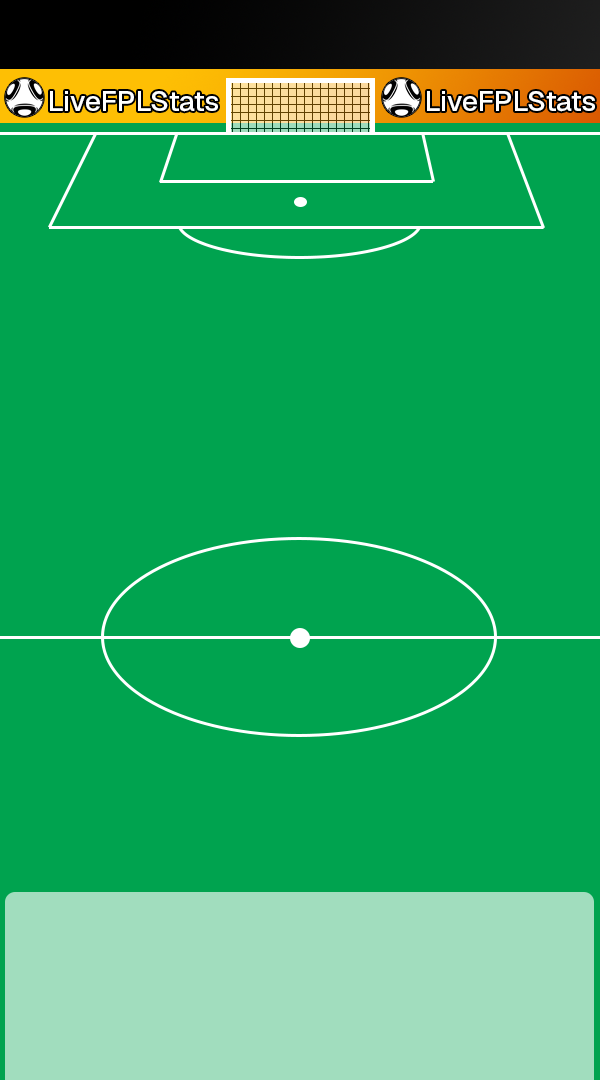
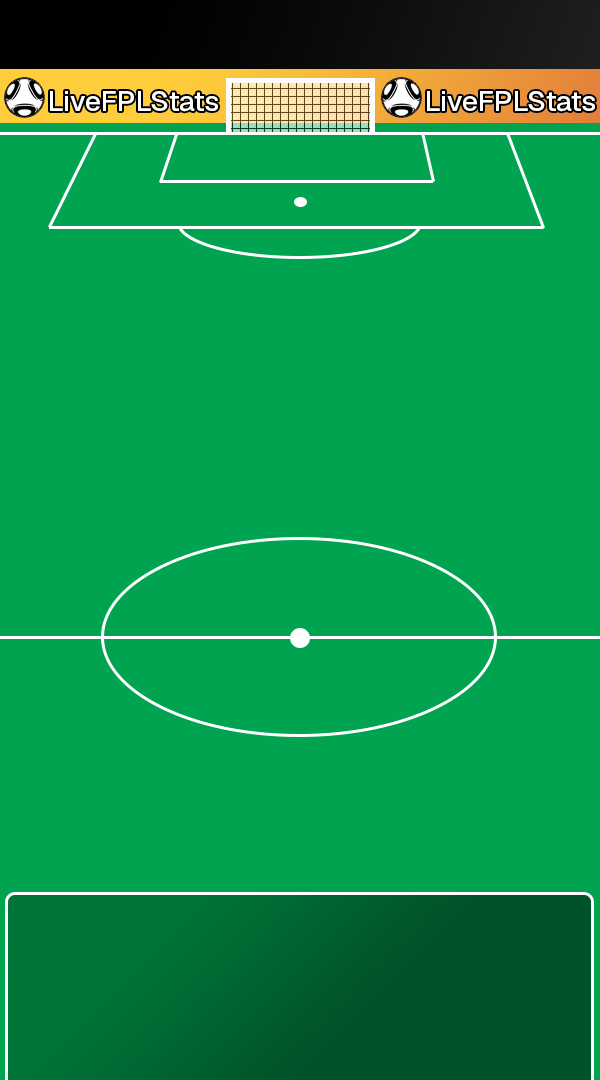
added new pitch graphic for  dream team image generation minor image generation styling changes

Changed region(s): [[0.0, 0.825, 0.99, 1.0], [0.0, 0.0611, 1.0, 0.1222]]

diff --git a/bot/image_generator.py b/bot/image_generator.py
@@ -6,6 +6,7 @@ from PIL import Image, ImageDraw, ImageFont
 
 # --- File Paths ---
 BACKGROUND_IMAGE_PATH = "mobile-pitch-graphic.png"
+DREAMTEAM_BACKGROUND_PATH = "dream-pitch-graphic.png"
 FONT_PATH = "Geist-Medium.otf"
 JERSEYS_DIR = "team_jerseys"
 JERSEY_SIZE = (94, 125)  # ~10% smaller than original 104x146, maintains aspect ratio
@@ -21,9 +22,9 @@ PLAYER_BOX_WIDTH = 110  # Fixed width to fit "XXXXXXXX..." at font size 20
 # --- Shared Layout Settings ---
 NAME_BOX_Y_OFFSET = 66      # Offset from player Y to name box
 JERSEY_Y_OFFSET = 10        # Offset for jersey paste position
-NAME_TEXT_Y_OFFSET = -2     # Name text Y offset within box
-POINTS_BOX_COLOR = "#015030"  # Dark green
-NAME_BOX_COLOR = (0, 0, 0, 100)  # Semi-transparent black
+NAME_TEXT_Y_OFFSET = -1     # Name text Y offset within box
+POINTS_BOX_COLOR = "#2E0F68"  # Purple
+NAME_BOX_COLOR = (0, 0, 0, 100)  # Black
 
 
 def format_player_price(player):
@@ -273,7 +274,7 @@ def generate_team_image(fpl_data, summary_data, is_finished=False):
 def generate_dreamteam_image(fpl_data, summary_data):
     """Generate dream team image with Player of the Week graphic."""
     try:
-        pitch = Image.open(BACKGROUND_IMAGE_PATH).convert("RGBA")
+        pitch = Image.open(DREAMTEAM_BACKGROUND_PATH).convert("RGBA")
         base_layer = Image.new("RGBA", pitch.size, "#1A1A1E")
         background = Image.alpha_composite(base_layer, pitch)
         draw = ImageDraw.Draw(background)
@@ -374,9 +375,9 @@ def generate_dreamteam_image(fpl_data, summary_data):
     potw_name = potw_player_info['web_name']
     potw_points = potw_data['points']
 
-    # POTW positioning (bottom center area)
-    potw_y = int(height * 0.89) - 10
-    potw_font_large = ImageFont.truetype(FONT_PATH, 28)  # Same size as league name
+    # POTW fonts
+    potw_title_font = ImageFont.truetype(FONT_PATH, 36)  # Larger title
+    potw_details_font = ImageFont.truetype(FONT_PATH, 28)  # Smaller details
 
     # Load jersey for POTW (full size like pitch players)
     team_id = potw_player_info['team']
@@ -395,26 +396,36 @@ def generate_dreamteam_image(fpl_data, summary_data):
     except FileNotFoundError:
         pass
 
-    # Calculate text width for centering the whole section
+    # Draw "Player of the Week" title - centered horizontally, higher up
     title_text = "Player of the Week"
-    title_bbox = draw.textbbox((0, 0), title_text, font=potw_font_large)
-    text_width = title_bbox[2]
-    jersey_width = potw_img.width if potw_img else 0
-    total_width = text_width + 20 + jersey_width  # 20px gap between text and jersey
+    title_bbox = draw.textbbox((0, 0), title_text, font=potw_title_font)
+    title_width = title_bbox[2]
+    title_x = (width - title_width) // 2
+    title_y = int(height * 0.85) - 15  # Adjust this to move title up/down
+    draw.text((title_x, title_y), title_text, font=potw_title_font, fill="black")
 
-    # Center the whole section
+    # Calculate positioning for details section (name, pts, stats + jersey)
+    details_y = title_y + 70  # Adjust this to move details up/down (was 40, now 50 = 10px lower)
+    jersey_width = potw_img.width if potw_img else 0
+
+    # Get max width of detail texts
+    name_bbox = draw.textbbox((0, 0), potw_name, font=potw_details_font)
+    pts_bbox = draw.textbbox((0, 0), f"{potw_points} pts", font=potw_details_font)
+    stats_bbox = draw.textbbox((0, 0), f"G: {potw_data['goals']} A: {potw_data['assists']}", font=potw_details_font)
+    max_text_width = max(name_bbox[2], pts_bbox[2], stats_bbox[2])
+
+    total_width = max_text_width + 20 + jersey_width
     start_x = (width - total_width) // 2
 
-    # Draw text (left-aligned within centered section)
-    draw.text((start_x, potw_y), title_text, font=potw_font_large, fill="white")
-    draw.text((start_x, potw_y + 30), potw_name, font=potw_font_large, fill="white")
-    draw.text((start_x, potw_y + 60), f"{potw_points} pts", font=potw_font_large, fill="white")
-    draw.text((start_x, potw_y + 90), f"G: {potw_data['goals']} A: {potw_data['assists']}", font=potw_font_large, fill="white")
+    # Draw player details (left-aligned within centered section)
+    draw.text((start_x, details_y), potw_name, font=potw_details_font, fill="black")
+    draw.text((start_x, details_y + 28), f"{potw_points} pts", font=potw_details_font, fill="black")
+    draw.text((start_x, details_y + 56), f"G: {potw_data['goals']} A: {potw_data['assists']}", font=potw_details_font, fill="black")
 
     # Draw jersey to the right of text
     if potw_img:
-        jersey_x = start_x + text_width + 20
-        jersey_y = potw_y + 5
+        jersey_x = start_x + max_text_width + 20
+        jersey_y = details_y - 10  # Adjust this to move jersey up/down
         background.paste(potw_img, (jersey_x, jersey_y), potw_img)
 
     img_byte_arr = io.BytesIO()
